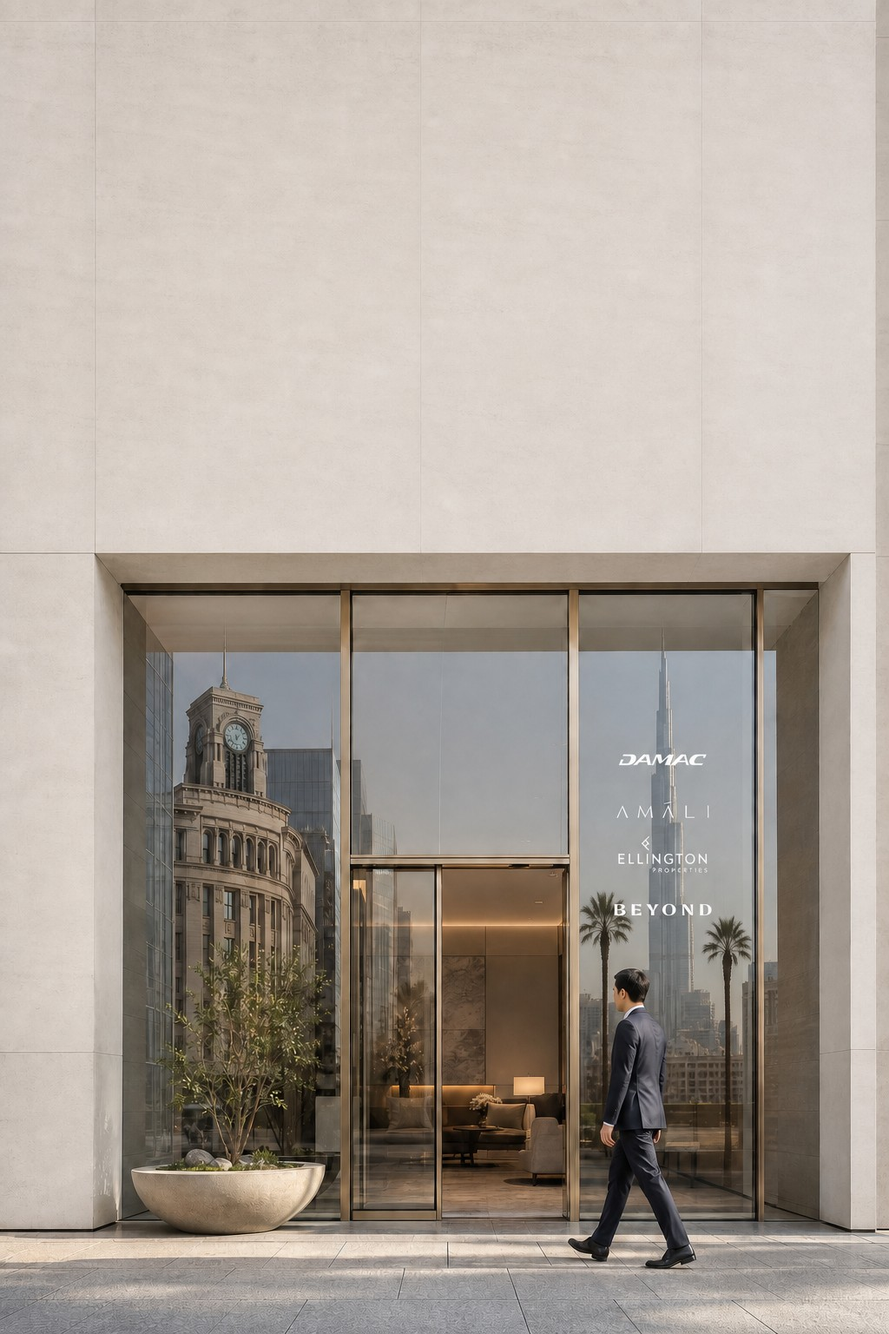
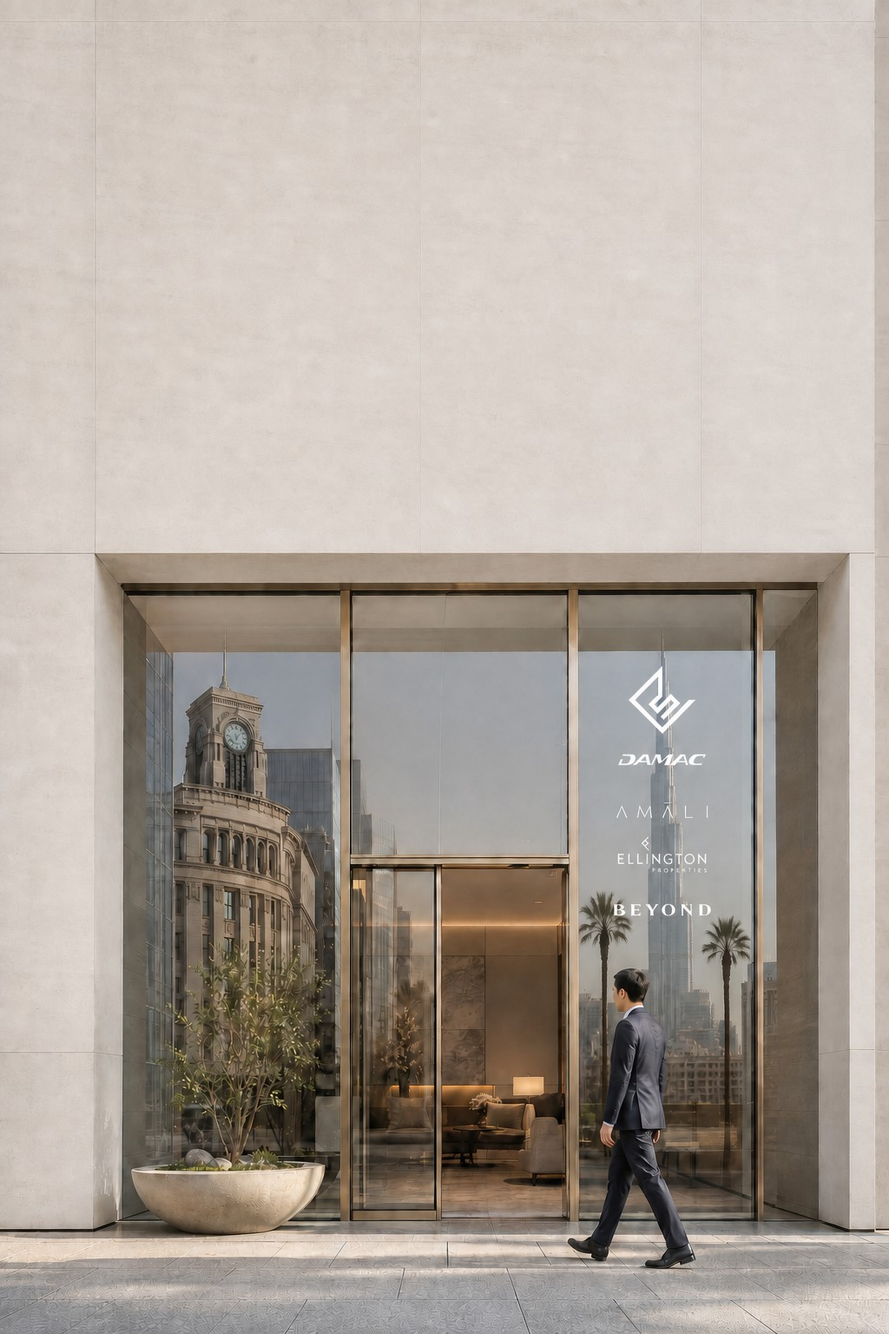
敷居・ロゴ入りを、EXCEED社章入りの版に差し替え
硝子に社章＋4社ロゴが入ったため、社章もオフにすればロゴは硝子の一箇所だけになる。
その旨を画像メモに追記。

diff --git a/index.html b/index.html
@@ -166,7 +166,7 @@
 <div id="stage"></div>
 
 <script>
-const HEROES = [{"id": "ginza-vanishing-point", "name": "銀座の消失点 ／ GINZA VANISHING POINT", "file": "assets/heroes/ginza-vanishing-point.jpg", "note": "通りの消失点にブルジュ。左上の空が唯一まとまって空いている。", "layouts": [{"id": "1", "name": "天 ／ 見出しは静かな面へ", "head": {"t": 35, "l": 12, "r": null, "w": 118, "align": "left", "color": "ink", "scrim": 44, "size": 21}, "band": {"h": 54, "cols": 1}}, {"id": "2", "name": "地 ／ 写真は無傷、文字は下に", "head": {"zone": "band", "color": "white"}, "band": {"h": 67, "cols": 1}}, {"id": "3", "name": "側 ／ 寄せて余白を作る", "head": {"t": 52, "l": 12, "r": null, "w": 96, "align": "left", "color": "ink", "scrim": 44, "size": 19}, "band": {"h": 49, "cols": 1}}, {"id": "4", "name": "二段 ／ 4社を柱に立てる", "head": {"t": 35, "l": 12, "r": null, "w": 118, "align": "left", "color": "ink", "scrim": 44, "size": 21}, "band": {"h": 54, "cols": 2}}]}, {"id": "ginza-corridor", "name": "銀座回廊 ／ GINZA CORRIDOR", "file": "assets/heroes/ginza-corridor.jpg", "note": "完全な左右対称。この一枚だけは中央揃えが効く。空は上40%まるごと無地。", "layouts": [{"id": "1", "name": "中央 ／ 見出しは静かな面へ", "head": {"t": 30, "l": 12, "r": 12, "w": null, "align": "center", "color": "ink", "scrim": 44, "size": 22}, "band": {"h": 50, "cols": 1}}, {"id": "2", "name": "地 ／ 写真は無傷、文字は下に", "head": {"zone": "band", "color": "white"}, "band": {"h": 63, "cols": 1}}, {"id": "3", "name": "側 ／ 寄せて余白を作る", "head": {"t": 30, "l": 12, "r": null, "w": 104, "align": "left", "color": "ink", "scrim": 44, "size": 20}, "band": {"h": 45, "cols": 1}}, {"id": "4", "name": "二段 ／ 4社を柱に立てる", "head": {"t": 30, "l": 12, "r": 12, "w": null, "align": "center", "color": "ink", "scrim": 44, "size": 22}, "band": {"h": 50, "cols": 2}}]}, {"id": "morning-crossing", "name": "朝の交差点 ／ MORNING CROSSING", "file": "assets/heroes/morning-crossing.jpg", "note": "右手前が日陰の石壁。白文字が最も映える面。左上の空も静か。", "layouts": [{"id": "1", "name": "天 ／ 見出しは静かな面へ", "head": {"t": 32, "l": 12, "r": null, "w": 104, "align": "left", "color": "ink", "scrim": 44, "size": 21}, "band": {"h": 54, "cols": 1}}, {"id": "2", "name": "地 ／ 写真は無傷、文字は下に", "head": {"zone": "band", "color": "white"}, "band": {"h": 67, "cols": 1}}, {"id": "3", "name": "右壁 ／ 寄せて余白を作る", "head": {"t": 96, "l": null, "r": 12, "w": 74, "align": "right", "color": "white", "scrim": 0, "size": 18}, "band": {"h": 49, "cols": 1}}, {"id": "4", "name": "二段 ／ 4社を柱に立てる", "head": {"t": 32, "l": 12, "r": null, "w": 104, "align": "left", "color": "ink", "scrim": 44, "size": 21}, "band": {"h": 54, "cols": 2}}]}, {"id": "elevated-ginza", "name": "俯瞰の銀座 ／ ELEVATED GINZA", "file": "assets/heroes/elevated-ginza.jpg", "note": "俯瞰。時計塔が左、ブルジュが右上。空は上30%が完全に無地。", "layouts": [{"id": "1", "name": "天 ／ 見出しは静かな面へ", "head": {"t": 30, "l": null, "r": 12, "w": 112, "align": "right", "color": "ink", "scrim": 44, "size": 21}, "band": {"h": 50, "cols": 1}}, {"id": "2", "name": "地 ／ 写真は無傷、文字は下に", "head": {"zone": "band", "color": "white"}, "band": {"h": 63, "cols": 1}}, {"id": "3", "name": "側 ／ 寄せて余白を作る", "head": {"t": 30, "l": 12, "r": null, "w": 100, "align": "left", "color": "ink", "scrim": 44, "size": 20}, "band": {"h": 45, "cols": 1}}, {"id": "4", "name": "二段 ／ 4社を柱に立てる", "head": {"t": 30, "l": null, "r": 12, "w": 112, "align": "right", "color": "ink", "scrim": 44, "size": 21}, "band": {"h": 50, "cols": 2}}]}, {"id": "clocktower-burj", "name": "時計塔とブルジュ ／ CLOCKTOWER & BURJ", "file": "assets/heroes/clocktower-burj.jpg", "note": "時計塔が右を占める。左上の空が縦に大きく空いており、塔と喧嘩しない。", "layouts": [{"id": "1", "name": "天 ／ 見出しは静かな面へ", "head": {"t": 34, "l": 12, "r": null, "w": 100, "align": "left", "color": "ink", "scrim": 44, "size": 21}, "band": {"h": 54, "cols": 1}}, {"id": "2", "name": "地 ／ 写真は無傷、文字は下に", "head": {"zone": "band", "color": "white"}, "band": {"h": 67, "cols": 1}}, {"id": "3", "name": "側 ／ 寄せて余白を作る", "head": {"t": 88, "l": 12, "r": null, "w": 88, "align": "left", "color": "ink", "scrim": 44, "size": 19}, "band": {"h": 49, "cols": 1}}, {"id": "4", "name": "二段 ／ 4社を柱に立てる", "head": {"t": 34, "l": 12, "r": null, "w": 100, "align": "left", "color": "ink", "scrim": 44, "size": 21}, "band": {"h": 54, "cols": 2}}]}, {"id": "the-window-day", "name": "ショーウィンドウ・昼 ／ THE WINDOW, DAY", "file": "assets/heroes/the-window-day.jpg", "note": "上部の石の見切りが無地。ガラスの中の模型があるので下半分は隠さない。", "layouts": [{"id": "1", "name": "天 ／ 見出しは静かな面へ", "head": {"t": 24, "l": 12, "r": null, "w": 118, "align": "left", "color": "ink", "scrim": 30, "size": 21}, "band": {"h": 44, "cols": 1}}, {"id": "2", "name": "地 ／ 写真は無傷、文字は下に", "head": {"zone": "band", "color": "white"}, "band": {"h": 57, "cols": 1}}, {"id": "3", "name": "側 ／ 寄せて余白を作る", "head": {"t": 24, "l": 12, "r": null, "w": 76, "align": "left", "color": "ink", "scrim": 30, "size": 19}, "band": {"h": 39, "cols": 1}}, {"id": "4", "name": "二段 ／ 4社を柱に立てる", "head": {"t": 24, "l": 12, "r": null, "w": 118, "align": "left", "color": "ink", "scrim": 30, "size": 21}, "band": {"h": 44, "cols": 2}}]}, {"id": "the-window-dusk", "name": "ショーウィンドウ・黄昏 ／ THE WINDOW, DUSK", "file": "assets/heroes/the-window-dusk.jpg", "note": "黄昏の空が暗い。白文字をそのまま置ける。模型と夕景は見せ切る。", "layouts": [{"id": "1", "name": "天 ／ 見出しは静かな面へ", "head": {"t": 24, "l": 12, "r": null, "w": 118, "align": "left", "color": "white", "scrim": 0, "size": 21}, "band": {"h": 44, "cols": 1}}, {"id": "2", "name": "地 ／ 写真は無傷、文字は下に", "head": {"zone": "band", "color": "white"}, "band": {"h": 57, "cols": 1}}, {"id": "3", "name": "側 ／ 寄せて余白を作る", "head": {"t": 24, "l": 12, "r": null, "w": 76, "align": "left", "color": "white", "scrim": 0, "size": 19}, "band": {"h": 39, "cols": 1}}, {"id": "4", "name": "二段 ／ 4社を柱に立てる", "head": {"t": 24, "l": 12, "r": null, "w": 118, "align": "left", "color": "white", "scrim": 0, "size": 21}, "band": {"h": 44, "cols": 2}}]}, {"id": "the-model", "name": "模型 ／ THE MODEL", "file": "assets/heroes/the-model.jpg", "note": "主役は模型そのもの。左のボケた石面に白文字を置けば模型に触らない。", "layouts": [{"id": "1", "name": "天 ／ 見出しは静かな面へ", "head": {"t": 28, "l": 12, "r": null, "w": 104, "align": "left", "color": "white", "scrim": 0, "size": 21}, "band": {"h": 54, "cols": 1}}, {"id": "2", "name": "地 ／ 写真は無傷、文字は下に", "head": {"zone": "band", "color": "white"}, "band": {"h": 67, "cols": 1}}, {"id": "3", "name": "側 ／ 寄せて余白を作る", "head": {"t": 96, "l": 12, "r": null, "w": 88, "align": "left", "color": "white", "scrim": 0, "size": 19}, "band": {"h": 49, "cols": 1}}, {"id": "4", "name": "二段 ／ 4社を柱に立てる", "head": {"t": 28, "l": 12, "r": null, "w": 104, "align": "left", "color": "white", "scrim": 0, "size": 21}, "band": {"h": 54, "cols": 2}}]}, {"id": "iconic-daylight", "name": "白昼の銀座 ／ ICONIC DAYLIGHT", "file": "assets/heroes/iconic-daylight.jpg", "note": "最も静かな空。どこでも成立するが左上が最も広い。", "layouts": [{"id": "1", "name": "天 ／ 見出しは静かな面へ", "head": {"t": 32, "l": 12, "r": null, "w": 108, "align": "left", "color": "ink", "scrim": 44, "size": 21}, "band": {"h": 50, "cols": 1}}, {"id": "2", "name": "地 ／ 写真は無傷、文字は下に", "head": {"zone": "band", "color": "white"}, "band": {"h": 63, "cols": 1}}, {"id": "3", "name": "側 ／ 寄せて余白を作る", "head": {"t": 32, "l": null, "r": 12, "w": 96, "align": "right", "color": "ink", "scrim": 44, "size": 19}, "band": {"h": 45, "cols": 1}}, {"id": "4", "name": "二段 ／ 4社を柱に立てる", "head": {"t": 32, "l": 12, "r": null, "w": 108, "align": "left", "color": "ink", "scrim": 44, "size": 21}, "band": {"h": 50, "cols": 2}}]}, {"id": "blue-hour", "name": "青の刻 ／ BLUE HOUR", "file": "assets/heroes/blue-hour.jpg", "note": "夜。紺の空に白文字が最も美しい。濡れた路面は下半分なので帯で隠れてよい。", "layouts": [{"id": "1", "name": "天 ／ 見出しは静かな面へ", "head": {"t": 28, "l": 12, "r": null, "w": 112, "align": "left", "color": "white", "scrim": 0, "size": 21}, "band": {"h": 50, "cols": 1}}, {"id": "2", "name": "地 ／ 写真は無傷、文字は下に", "head": {"zone": "band", "color": "white"}, "band": {"h": 63, "cols": 1}}, {"id": "3", "name": "側 ／ 寄せて余白を作る", "head": {"t": 28, "l": null, "r": 12, "w": 96, "align": "right", "color": "white", "scrim": 0, "size": 19}, "band": {"h": 45, "cols": 1}}, {"id": "4", "name": "二段 ／ 4社を柱に立てる", "head": {"t": 28, "l": 12, "r": null, "w": 112, "align": "left", "color": "white", "scrim": 0, "size": 21}, "band": {"h": 50, "cols": 2}}]}, {"id": "window-reflection", "name": "硝子の中のドバイ ／ WINDOW REFLECTION", "file": "assets/heroes/window-reflection.jpg", "note": "硝子の中にドバイ。反射像を消さないよう文字は窓枠の外へ逃がす。", "layouts": [{"id": "1", "name": "天 ／ 見出しは静かな面へ", "head": {"t": 26, "l": 12, "r": null, "w": 112, "align": "left", "color": "ink", "scrim": 34, "size": 21}, "band": {"h": 48, "cols": 1}}, {"id": "2", "name": "地 ／ 写真は無傷、文字は下に", "head": {"zone": "band", "color": "white"}, "band": {"h": 61, "cols": 1}}, {"id": "3", "name": "側 ／ 寄せて余白を作る", "head": {"t": 90, "l": 12, "r": null, "w": 84, "align": "left", "color": "white", "scrim": 0, "size": 19}, "band": {"h": 43, "cols": 1}}, {"id": "4", "name": "二段 ／ 4社を柱に立てる", "head": {"t": 26, "l": 12, "r": null, "w": 112, "align": "left", "color": "ink", "scrim": 34, "size": 21}, "band": {"h": 48, "cols": 2}}]}, {"id": "new-office", "name": "新しい執務室 ／ THE NEW OFFICE", "file": "assets/heroes/new-office.jpg", "note": "室内。左の無地の壁が唯一の逃げ場。窓外のドバイと打合せ卓は見せる。", "layouts": [{"id": "1", "name": "壁 ／ 見出しは静かな面へ", "head": {"t": 30, "l": 12, "r": null, "w": 100, "align": "left", "color": "ink", "scrim": 36, "size": 21}, "band": {"h": 48, "cols": 1}}, {"id": "2", "name": "地 ／ 写真は無傷、文字は下に", "head": {"zone": "band", "color": "white"}, "band": {"h": 61, "cols": 1}}, {"id": "3", "name": "側 ／ 寄せて余白を作る", "head": {"t": 84, "l": 12, "r": null, "w": 86, "align": "left", "color": "ink", "scrim": 44, "size": 19}, "band": {"h": 43, "cols": 1}}, {"id": "4", "name": "二段 ／ 4社を柱に立てる", "head": {"t": 30, "l": 12, "r": null, "w": 100, "align": "left", "color": "ink", "scrim": 36, "size": 21}, "band": {"h": 48, "cols": 2}}]}, {"id": "elevated-city", "name": "俯瞰の街 ／ ELEVATED CITY", "file": "assets/heroes/elevated-city.jpg", "note": "俯瞰。空が上30%無地。街区のリズムが横に流れるので見出しも横位置。", "layouts": [{"id": "1", "name": "天 ／ 見出しは静かな面へ", "head": {"t": 28, "l": 12, "r": null, "w": 110, "align": "left", "color": "ink", "scrim": 44, "size": 21}, "band": {"h": 50, "cols": 1}}, {"id": "2", "name": "地 ／ 写真は無傷、文字は下に", "head": {"zone": "band", "color": "white"}, "band": {"h": 63, "cols": 1}}, {"id": "3", "name": "側 ／ 寄せて余白を作る", "head": {"t": 28, "l": null, "r": 12, "w": 94, "align": "right", "color": "ink", "scrim": 44, "size": 19}, "band": {"h": 45, "cols": 1}}, {"id": "4", "name": "二段 ／ 4社を柱に立てる", "head": {"t": 28, "l": 12, "r": null, "w": 110, "align": "left", "color": "ink", "scrim": 44, "size": 21}, "band": {"h": 50, "cols": 2}}]}, {"id": "human-led", "name": "歩く人 ／ HUMAN LED", "file": "assets/heroes/human-led.jpg", "note": "人物が中央下。顔に文字がかからないよう左上へ。視線の先が空くのも good。", "layouts": [{"id": "1", "name": "天 ／ 見出しは静かな面へ", "head": {"t": 30, "l": 12, "r": null, "w": 100, "align": "left", "color": "ink", "scrim": 44, "size": 21}, "band": {"h": 54, "cols": 1}}, {"id": "2", "name": "地 ／ 写真は無傷、文字は下に", "head": {"zone": "band", "color": "white"}, "band": {"h": 67, "cols": 1}}, {"id": "3", "name": "側 ／ 寄せて余白を作る", "head": {"t": 30, "l": null, "r": 12, "w": 88, "align": "right", "color": "ink", "scrim": 44, "size": 19}, "band": {"h": 49, "cols": 1}}, {"id": "4", "name": "二段 ／ 4社を柱に立てる", "head": {"t": 30, "l": 12, "r": null, "w": 100, "align": "left", "color": "ink", "scrim": 44, "size": 21}, "band": {"h": 54, "cols": 2}}]}, {"id": "champagne-sunrise", "name": "黎明 ／ CHAMPAGNE SUNRISE", "file": "assets/heroes/champagne-sunrise.jpg", "note": "最も明るい空。墨の明朝が最もよく効く一枚。", "layouts": [{"id": "1", "name": "天 ／ 見出しは静かな面へ", "head": {"t": 32, "l": 12, "r": null, "w": 112, "align": "left", "color": "ink", "scrim": 44, "size": 21}, "band": {"h": 50, "cols": 1}}, {"id": "2", "name": "地 ／ 写真は無傷、文字は下に", "head": {"zone": "band", "color": "white"}, "band": {"h": 63, "cols": 1}}, {"id": "3", "name": "側 ／ 寄せて余白を作る", "head": {"t": 32, "l": null, "r": 12, "w": 96, "align": "right", "color": "ink", "scrim": 44, "size": 19}, "band": {"h": 45, "cols": 1}}, {"id": "4", "name": "二段 ／ 4社を柱に立てる", "head": {"t": 32, "l": 12, "r": null, "w": 112, "align": "left", "color": "ink", "scrim": 44, "size": 21}, "band": {"h": 50, "cols": 2}}]}, {"id": "architectural-model", "name": "建築模型 ／ ARCHITECTURAL MODEL", "file": "assets/heroes/architectural-model.jpg", "note": "模型と背後の塔。上部のガラス面が暗いので白文字が乗る。", "layouts": [{"id": "1", "name": "天 ／ 見出しは静かな面へ", "head": {"t": 26, "l": 12, "r": null, "w": 104, "align": "left", "color": "white", "scrim": 0, "size": 21}, "band": {"h": 46, "cols": 1}}, {"id": "2", "name": "地 ／ 写真は無傷、文字は下に", "head": {"zone": "band", "color": "white"}, "band": {"h": 59, "cols": 1}}, {"id": "3", "name": "側 ／ 寄せて余白を作る", "head": {"t": 92, "l": 12, "r": null, "w": 86, "align": "left", "color": "white", "scrim": 0, "size": 19}, "band": {"h": 41, "cols": 1}}, {"id": "4", "name": "二段 ／ 4社を柱に立てる", "head": {"t": 26, "l": 12, "r": null, "w": 104, "align": "left", "color": "white", "scrim": 0, "size": 21}, "band": {"h": 46, "cols": 2}}]}, {"id": "office-beacon", "name": "灯 ／ THE BEACON", "file": "assets/heroes/office-beacon.jpg", "note": "夜。左が暗く右に灯った窓。左上の闇に白文字を置くと灯りが引き立つ。", "layouts": [{"id": "1", "name": "天 ／ 見出しは静かな面へ", "head": {"t": 28, "l": 12, "r": null, "w": 104, "align": "left", "color": "white", "scrim": 0, "size": 21}, "band": {"h": 50, "cols": 1}}, {"id": "2", "name": "地 ／ 写真は無傷、文字は下に", "head": {"zone": "band", "color": "white"}, "band": {"h": 63, "cols": 1}}, {"id": "3", "name": "側 ／ 寄せて余白を作る", "head": {"t": 92, "l": 12, "r": null, "w": 88, "align": "left", "color": "white", "scrim": 0, "size": 19}, "band": {"h": 45, "cols": 1}}, {"id": "4", "name": "二段 ／ 4社を柱に立てる", "head": {"t": 28, "l": 12, "r": null, "w": 104, "align": "left", "color": "white", "scrim": 0, "size": 21}, "band": {"h": 50, "cols": 2}}]}, {"id": "the-threshold", "name": "入口・敷居 ／ THE THRESHOLD", "file": "assets/heroes/the-threshold.jpg", "note": "上4割が継ぎ目のない石壁。ここは\"空きスペース\"ではなく看板面。文字は壁に刻まれたサインとして置く。ガラスの中は左に時計塔、右にブルジュ。銀座からドバイへまたぐ敷居そのものなので、下半分は絶対に隠さない。", "layouts": [{"id": "1", "name": "壁面サイン ／ 石壁に刻む", "head": {"t": 34, "l": 12, "r": 12, "w": null, "align": "center", "color": "ink", "scrim": 0, "size": 24}, "band": {"h": 26, "cols": 1}}, {"id": "2", "name": "地 ／ 壁は無地のまま残す", "head": {"zone": "band", "color": "white"}, "band": {"h": 40, "cols": 1}}, {"id": "3", "name": "軒下 ／ 硝子の直上に小さく", "head": {"t": 52, "l": 14, "r": null, "w": 92, "align": "left", "color": "ink", "scrim": 0, "size": 16}, "band": {"h": 24, "cols": 1}}, {"id": "4", "name": "二段 ／ 壁に見出し、4社は柱に", "head": {"t": 30, "l": 12, "r": null, "w": 120, "align": "left", "color": "ink", "scrim": 0, "size": 22}, "band": {"h": 30, "cols": 2}}, {"id": "5", "name": "壁面完結 ／ すべてを石壁に、下は無傷", "head": {"zone": "band", "color": "ink"}, "band": {"h": 0, "cols": 1, "pos": "top"}}]}, {"id": "threshold-branded", "name": "敷居・ロゴ入り ／ THE THRESHOLD, BRANDED", "file": "assets/heroes/threshold-branded.jpg", "noDevs": true, "note": "硝子に4社のロゴがすでに焼き込まれている一枚。紙面で社名を繰り返すと二重になるので、この画像だけデベロッパー欄を出さない。上4割の石壁は看板面、硝子の中（時計塔・ブルジュ・ロゴ）は隠さない。", "layouts": [{"id": "1", "name": "壁面サイン ／ 石壁に刻む", "head": {"t": 34, "l": 12, "r": 12, "w": null, "align": "center", "color": "ink", "scrim": 0, "size": 24}, "band": {"h": 24, "cols": 1}}, {"id": "2", "name": "壁面完結 ／ すべてを石壁に、下は無傷", "head": {"zone": "band", "color": "ink"}, "band": {"h": 0, "cols": 1, "pos": "top"}}, {"id": "3", "name": "軒下 ／ 硝子の直上に小さく", "head": {"t": 52, "l": 14, "r": null, "w": 92, "align": "left", "color": "ink", "scrim": 0, "size": 16}, "band": {"h": 22, "cols": 1}}, {"id": "4", "name": "地 ／ 壁は無地のまま残す", "head": {"zone": "band", "color": "white"}, "band": {"h": 36, "cols": 1}}]}];
+const HEROES = [{"id": "ginza-vanishing-point", "name": "銀座の消失点 ／ GINZA VANISHING POINT", "file": "assets/heroes/ginza-vanishing-point.jpg", "note": "通りの消失点にブルジュ。左上の空が唯一まとまって空いている。", "layouts": [{"id": "1", "name": "天 ／ 見出しは静かな面へ", "head": {"t": 35, "l": 12, "r": null, "w": 118, "align": "left", "color": "ink", "scrim": 44, "size": 21}, "band": {"h": 54, "cols": 1}}, {"id": "2", "name": "地 ／ 写真は無傷、文字は下に", "head": {"zone": "band", "color": "white"}, "band": {"h": 67, "cols": 1}}, {"id": "3", "name": "側 ／ 寄せて余白を作る", "head": {"t": 52, "l": 12, "r": null, "w": 96, "align": "left", "color": "ink", "scrim": 44, "size": 19}, "band": {"h": 49, "cols": 1}}, {"id": "4", "name": "二段 ／ 4社を柱に立てる", "head": {"t": 35, "l": 12, "r": null, "w": 118, "align": "left", "color": "ink", "scrim": 44, "size": 21}, "band": {"h": 54, "cols": 2}}]}, {"id": "ginza-corridor", "name": "銀座回廊 ／ GINZA CORRIDOR", "file": "assets/heroes/ginza-corridor.jpg", "note": "完全な左右対称。この一枚だけは中央揃えが効く。空は上40%まるごと無地。", "layouts": [{"id": "1", "name": "中央 ／ 見出しは静かな面へ", "head": {"t": 30, "l": 12, "r": 12, "w": null, "align": "center", "color": "ink", "scrim": 44, "size": 22}, "band": {"h": 50, "cols": 1}}, {"id": "2", "name": "地 ／ 写真は無傷、文字は下に", "head": {"zone": "band", "color": "white"}, "band": {"h": 63, "cols": 1}}, {"id": "3", "name": "側 ／ 寄せて余白を作る", "head": {"t": 30, "l": 12, "r": null, "w": 104, "align": "left", "color": "ink", "scrim": 44, "size": 20}, "band": {"h": 45, "cols": 1}}, {"id": "4", "name": "二段 ／ 4社を柱に立てる", "head": {"t": 30, "l": 12, "r": 12, "w": null, "align": "center", "color": "ink", "scrim": 44, "size": 22}, "band": {"h": 50, "cols": 2}}]}, {"id": "morning-crossing", "name": "朝の交差点 ／ MORNING CROSSING", "file": "assets/heroes/morning-crossing.jpg", "note": "右手前が日陰の石壁。白文字が最も映える面。左上の空も静か。", "layouts": [{"id": "1", "name": "天 ／ 見出しは静かな面へ", "head": {"t": 32, "l": 12, "r": null, "w": 104, "align": "left", "color": "ink", "scrim": 44, "size": 21}, "band": {"h": 54, "cols": 1}}, {"id": "2", "name": "地 ／ 写真は無傷、文字は下に", "head": {"zone": "band", "color": "white"}, "band": {"h": 67, "cols": 1}}, {"id": "3", "name": "右壁 ／ 寄せて余白を作る", "head": {"t": 96, "l": null, "r": 12, "w": 74, "align": "right", "color": "white", "scrim": 0, "size": 18}, "band": {"h": 49, "cols": 1}}, {"id": "4", "name": "二段 ／ 4社を柱に立てる", "head": {"t": 32, "l": 12, "r": null, "w": 104, "align": "left", "color": "ink", "scrim": 44, "size": 21}, "band": {"h": 54, "cols": 2}}]}, {"id": "elevated-ginza", "name": "俯瞰の銀座 ／ ELEVATED GINZA", "file": "assets/heroes/elevated-ginza.jpg", "note": "俯瞰。時計塔が左、ブルジュが右上。空は上30%が完全に無地。", "layouts": [{"id": "1", "name": "天 ／ 見出しは静かな面へ", "head": {"t": 30, "l": null, "r": 12, "w": 112, "align": "right", "color": "ink", "scrim": 44, "size": 21}, "band": {"h": 50, "cols": 1}}, {"id": "2", "name": "地 ／ 写真は無傷、文字は下に", "head": {"zone": "band", "color": "white"}, "band": {"h": 63, "cols": 1}}, {"id": "3", "name": "側 ／ 寄せて余白を作る", "head": {"t": 30, "l": 12, "r": null, "w": 100, "align": "left", "color": "ink", "scrim": 44, "size": 20}, "band": {"h": 45, "cols": 1}}, {"id": "4", "name": "二段 ／ 4社を柱に立てる", "head": {"t": 30, "l": null, "r": 12, "w": 112, "align": "right", "color": "ink", "scrim": 44, "size": 21}, "band": {"h": 50, "cols": 2}}]}, {"id": "clocktower-burj", "name": "時計塔とブルジュ ／ CLOCKTOWER & BURJ", "file": "assets/heroes/clocktower-burj.jpg", "note": "時計塔が右を占める。左上の空が縦に大きく空いており、塔と喧嘩しない。", "layouts": [{"id": "1", "name": "天 ／ 見出しは静かな面へ", "head": {"t": 34, "l": 12, "r": null, "w": 100, "align": "left", "color": "ink", "scrim": 44, "size": 21}, "band": {"h": 54, "cols": 1}}, {"id": "2", "name": "地 ／ 写真は無傷、文字は下に", "head": {"zone": "band", "color": "white"}, "band": {"h": 67, "cols": 1}}, {"id": "3", "name": "側 ／ 寄せて余白を作る", "head": {"t": 88, "l": 12, "r": null, "w": 88, "align": "left", "color": "ink", "scrim": 44, "size": 19}, "band": {"h": 49, "cols": 1}}, {"id": "4", "name": "二段 ／ 4社を柱に立てる", "head": {"t": 34, "l": 12, "r": null, "w": 100, "align": "left", "color": "ink", "scrim": 44, "size": 21}, "band": {"h": 54, "cols": 2}}]}, {"id": "the-window-day", "name": "ショーウィンドウ・昼 ／ THE WINDOW, DAY", "file": "assets/heroes/the-window-day.jpg", "note": "上部の石の見切りが無地。ガラスの中の模型があるので下半分は隠さない。", "layouts": [{"id": "1", "name": "天 ／ 見出しは静かな面へ", "head": {"t": 24, "l": 12, "r": null, "w": 118, "align": "left", "color": "ink", "scrim": 30, "size": 21}, "band": {"h": 44, "cols": 1}}, {"id": "2", "name": "地 ／ 写真は無傷、文字は下に", "head": {"zone": "band", "color": "white"}, "band": {"h": 57, "cols": 1}}, {"id": "3", "name": "側 ／ 寄せて余白を作る", "head": {"t": 24, "l": 12, "r": null, "w": 76, "align": "left", "color": "ink", "scrim": 30, "size": 19}, "band": {"h": 39, "cols": 1}}, {"id": "4", "name": "二段 ／ 4社を柱に立てる", "head": {"t": 24, "l": 12, "r": null, "w": 118, "align": "left", "color": "ink", "scrim": 30, "size": 21}, "band": {"h": 44, "cols": 2}}]}, {"id": "the-window-dusk", "name": "ショーウィンドウ・黄昏 ／ THE WINDOW, DUSK", "file": "assets/heroes/the-window-dusk.jpg", "note": "黄昏の空が暗い。白文字をそのまま置ける。模型と夕景は見せ切る。", "layouts": [{"id": "1", "name": "天 ／ 見出しは静かな面へ", "head": {"t": 24, "l": 12, "r": null, "w": 118, "align": "left", "color": "white", "scrim": 0, "size": 21}, "band": {"h": 44, "cols": 1}}, {"id": "2", "name": "地 ／ 写真は無傷、文字は下に", "head": {"zone": "band", "color": "white"}, "band": {"h": 57, "cols": 1}}, {"id": "3", "name": "側 ／ 寄せて余白を作る", "head": {"t": 24, "l": 12, "r": null, "w": 76, "align": "left", "color": "white", "scrim": 0, "size": 19}, "band": {"h": 39, "cols": 1}}, {"id": "4", "name": "二段 ／ 4社を柱に立てる", "head": {"t": 24, "l": 12, "r": null, "w": 118, "align": "left", "color": "white", "scrim": 0, "size": 21}, "band": {"h": 44, "cols": 2}}]}, {"id": "the-model", "name": "模型 ／ THE MODEL", "file": "assets/heroes/the-model.jpg", "note": "主役は模型そのもの。左のボケた石面に白文字を置けば模型に触らない。", "layouts": [{"id": "1", "name": "天 ／ 見出しは静かな面へ", "head": {"t": 28, "l": 12, "r": null, "w": 104, "align": "left", "color": "white", "scrim": 0, "size": 21}, "band": {"h": 54, "cols": 1}}, {"id": "2", "name": "地 ／ 写真は無傷、文字は下に", "head": {"zone": "band", "color": "white"}, "band": {"h": 67, "cols": 1}}, {"id": "3", "name": "側 ／ 寄せて余白を作る", "head": {"t": 96, "l": 12, "r": null, "w": 88, "align": "left", "color": "white", "scrim": 0, "size": 19}, "band": {"h": 49, "cols": 1}}, {"id": "4", "name": "二段 ／ 4社を柱に立てる", "head": {"t": 28, "l": 12, "r": null, "w": 104, "align": "left", "color": "white", "scrim": 0, "size": 21}, "band": {"h": 54, "cols": 2}}]}, {"id": "iconic-daylight", "name": "白昼の銀座 ／ ICONIC DAYLIGHT", "file": "assets/heroes/iconic-daylight.jpg", "note": "最も静かな空。どこでも成立するが左上が最も広い。", "layouts": [{"id": "1", "name": "天 ／ 見出しは静かな面へ", "head": {"t": 32, "l": 12, "r": null, "w": 108, "align": "left", "color": "ink", "scrim": 44, "size": 21}, "band": {"h": 50, "cols": 1}}, {"id": "2", "name": "地 ／ 写真は無傷、文字は下に", "head": {"zone": "band", "color": "white"}, "band": {"h": 63, "cols": 1}}, {"id": "3", "name": "側 ／ 寄せて余白を作る", "head": {"t": 32, "l": null, "r": 12, "w": 96, "align": "right", "color": "ink", "scrim": 44, "size": 19}, "band": {"h": 45, "cols": 1}}, {"id": "4", "name": "二段 ／ 4社を柱に立てる", "head": {"t": 32, "l": 12, "r": null, "w": 108, "align": "left", "color": "ink", "scrim": 44, "size": 21}, "band": {"h": 50, "cols": 2}}]}, {"id": "blue-hour", "name": "青の刻 ／ BLUE HOUR", "file": "assets/heroes/blue-hour.jpg", "note": "夜。紺の空に白文字が最も美しい。濡れた路面は下半分なので帯で隠れてよい。", "layouts": [{"id": "1", "name": "天 ／ 見出しは静かな面へ", "head": {"t": 28, "l": 12, "r": null, "w": 112, "align": "left", "color": "white", "scrim": 0, "size": 21}, "band": {"h": 50, "cols": 1}}, {"id": "2", "name": "地 ／ 写真は無傷、文字は下に", "head": {"zone": "band", "color": "white"}, "band": {"h": 63, "cols": 1}}, {"id": "3", "name": "側 ／ 寄せて余白を作る", "head": {"t": 28, "l": null, "r": 12, "w": 96, "align": "right", "color": "white", "scrim": 0, "size": 19}, "band": {"h": 45, "cols": 1}}, {"id": "4", "name": "二段 ／ 4社を柱に立てる", "head": {"t": 28, "l": 12, "r": null, "w": 112, "align": "left", "color": "white", "scrim": 0, "size": 21}, "band": {"h": 50, "cols": 2}}]}, {"id": "window-reflection", "name": "硝子の中のドバイ ／ WINDOW REFLECTION", "file": "assets/heroes/window-reflection.jpg", "note": "硝子の中にドバイ。反射像を消さないよう文字は窓枠の外へ逃がす。", "layouts": [{"id": "1", "name": "天 ／ 見出しは静かな面へ", "head": {"t": 26, "l": 12, "r": null, "w": 112, "align": "left", "color": "ink", "scrim": 34, "size": 21}, "band": {"h": 48, "cols": 1}}, {"id": "2", "name": "地 ／ 写真は無傷、文字は下に", "head": {"zone": "band", "color": "white"}, "band": {"h": 61, "cols": 1}}, {"id": "3", "name": "側 ／ 寄せて余白を作る", "head": {"t": 90, "l": 12, "r": null, "w": 84, "align": "left", "color": "white", "scrim": 0, "size": 19}, "band": {"h": 43, "cols": 1}}, {"id": "4", "name": "二段 ／ 4社を柱に立てる", "head": {"t": 26, "l": 12, "r": null, "w": 112, "align": "left", "color": "ink", "scrim": 34, "size": 21}, "band": {"h": 48, "cols": 2}}]}, {"id": "new-office", "name": "新しい執務室 ／ THE NEW OFFICE", "file": "assets/heroes/new-office.jpg", "note": "室内。左の無地の壁が唯一の逃げ場。窓外のドバイと打合せ卓は見せる。", "layouts": [{"id": "1", "name": "壁 ／ 見出しは静かな面へ", "head": {"t": 30, "l": 12, "r": null, "w": 100, "align": "left", "color": "ink", "scrim": 36, "size": 21}, "band": {"h": 48, "cols": 1}}, {"id": "2", "name": "地 ／ 写真は無傷、文字は下に", "head": {"zone": "band", "color": "white"}, "band": {"h": 61, "cols": 1}}, {"id": "3", "name": "側 ／ 寄せて余白を作る", "head": {"t": 84, "l": 12, "r": null, "w": 86, "align": "left", "color": "ink", "scrim": 44, "size": 19}, "band": {"h": 43, "cols": 1}}, {"id": "4", "name": "二段 ／ 4社を柱に立てる", "head": {"t": 30, "l": 12, "r": null, "w": 100, "align": "left", "color": "ink", "scrim": 36, "size": 21}, "band": {"h": 48, "cols": 2}}]}, {"id": "elevated-city", "name": "俯瞰の街 ／ ELEVATED CITY", "file": "assets/heroes/elevated-city.jpg", "note": "俯瞰。空が上30%無地。街区のリズムが横に流れるので見出しも横位置。", "layouts": [{"id": "1", "name": "天 ／ 見出しは静かな面へ", "head": {"t": 28, "l": 12, "r": null, "w": 110, "align": "left", "color": "ink", "scrim": 44, "size": 21}, "band": {"h": 50, "cols": 1}}, {"id": "2", "name": "地 ／ 写真は無傷、文字は下に", "head": {"zone": "band", "color": "white"}, "band": {"h": 63, "cols": 1}}, {"id": "3", "name": "側 ／ 寄せて余白を作る", "head": {"t": 28, "l": null, "r": 12, "w": 94, "align": "right", "color": "ink", "scrim": 44, "size": 19}, "band": {"h": 45, "cols": 1}}, {"id": "4", "name": "二段 ／ 4社を柱に立てる", "head": {"t": 28, "l": 12, "r": null, "w": 110, "align": "left", "color": "ink", "scrim": 44, "size": 21}, "band": {"h": 50, "cols": 2}}]}, {"id": "human-led", "name": "歩く人 ／ HUMAN LED", "file": "assets/heroes/human-led.jpg", "note": "人物が中央下。顔に文字がかからないよう左上へ。視線の先が空くのも good。", "layouts": [{"id": "1", "name": "天 ／ 見出しは静かな面へ", "head": {"t": 30, "l": 12, "r": null, "w": 100, "align": "left", "color": "ink", "scrim": 44, "size": 21}, "band": {"h": 54, "cols": 1}}, {"id": "2", "name": "地 ／ 写真は無傷、文字は下に", "head": {"zone": "band", "color": "white"}, "band": {"h": 67, "cols": 1}}, {"id": "3", "name": "側 ／ 寄せて余白を作る", "head": {"t": 30, "l": null, "r": 12, "w": 88, "align": "right", "color": "ink", "scrim": 44, "size": 19}, "band": {"h": 49, "cols": 1}}, {"id": "4", "name": "二段 ／ 4社を柱に立てる", "head": {"t": 30, "l": 12, "r": null, "w": 100, "align": "left", "color": "ink", "scrim": 44, "size": 21}, "band": {"h": 54, "cols": 2}}]}, {"id": "champagne-sunrise", "name": "黎明 ／ CHAMPAGNE SUNRISE", "file": "assets/heroes/champagne-sunrise.jpg", "note": "最も明るい空。墨の明朝が最もよく効く一枚。", "layouts": [{"id": "1", "name": "天 ／ 見出しは静かな面へ", "head": {"t": 32, "l": 12, "r": null, "w": 112, "align": "left", "color": "ink", "scrim": 44, "size": 21}, "band": {"h": 50, "cols": 1}}, {"id": "2", "name": "地 ／ 写真は無傷、文字は下に", "head": {"zone": "band", "color": "white"}, "band": {"h": 63, "cols": 1}}, {"id": "3", "name": "側 ／ 寄せて余白を作る", "head": {"t": 32, "l": null, "r": 12, "w": 96, "align": "right", "color": "ink", "scrim": 44, "size": 19}, "band": {"h": 45, "cols": 1}}, {"id": "4", "name": "二段 ／ 4社を柱に立てる", "head": {"t": 32, "l": 12, "r": null, "w": 112, "align": "left", "color": "ink", "scrim": 44, "size": 21}, "band": {"h": 50, "cols": 2}}]}, {"id": "architectural-model", "name": "建築模型 ／ ARCHITECTURAL MODEL", "file": "assets/heroes/architectural-model.jpg", "note": "模型と背後の塔。上部のガラス面が暗いので白文字が乗る。", "layouts": [{"id": "1", "name": "天 ／ 見出しは静かな面へ", "head": {"t": 26, "l": 12, "r": null, "w": 104, "align": "left", "color": "white", "scrim": 0, "size": 21}, "band": {"h": 46, "cols": 1}}, {"id": "2", "name": "地 ／ 写真は無傷、文字は下に", "head": {"zone": "band", "color": "white"}, "band": {"h": 59, "cols": 1}}, {"id": "3", "name": "側 ／ 寄せて余白を作る", "head": {"t": 92, "l": 12, "r": null, "w": 86, "align": "left", "color": "white", "scrim": 0, "size": 19}, "band": {"h": 41, "cols": 1}}, {"id": "4", "name": "二段 ／ 4社を柱に立てる", "head": {"t": 26, "l": 12, "r": null, "w": 104, "align": "left", "color": "white", "scrim": 0, "size": 21}, "band": {"h": 46, "cols": 2}}]}, {"id": "office-beacon", "name": "灯 ／ THE BEACON", "file": "assets/heroes/office-beacon.jpg", "note": "夜。左が暗く右に灯った窓。左上の闇に白文字を置くと灯りが引き立つ。", "layouts": [{"id": "1", "name": "天 ／ 見出しは静かな面へ", "head": {"t": 28, "l": 12, "r": null, "w": 104, "align": "left", "color": "white", "scrim": 0, "size": 21}, "band": {"h": 50, "cols": 1}}, {"id": "2", "name": "地 ／ 写真は無傷、文字は下に", "head": {"zone": "band", "color": "white"}, "band": {"h": 63, "cols": 1}}, {"id": "3", "name": "側 ／ 寄せて余白を作る", "head": {"t": 92, "l": 12, "r": null, "w": 88, "align": "left", "color": "white", "scrim": 0, "size": 19}, "band": {"h": 45, "cols": 1}}, {"id": "4", "name": "二段 ／ 4社を柱に立てる", "head": {"t": 28, "l": 12, "r": null, "w": 104, "align": "left", "color": "white", "scrim": 0, "size": 21}, "band": {"h": 50, "cols": 2}}]}, {"id": "the-threshold", "name": "入口・敷居 ／ THE THRESHOLD", "file": "assets/heroes/the-threshold.jpg", "note": "上4割が継ぎ目のない石壁。ここは\"空きスペース\"ではなく看板面。文字は壁に刻まれたサインとして置く。ガラスの中は左に時計塔、右にブルジュ。銀座からドバイへまたぐ敷居そのものなので、下半分は絶対に隠さない。", "layouts": [{"id": "1", "name": "壁面サイン ／ 石壁に刻む", "head": {"t": 34, "l": 12, "r": 12, "w": null, "align": "center", "color": "ink", "scrim": 0, "size": 24}, "band": {"h": 26, "cols": 1}}, {"id": "2", "name": "地 ／ 壁は無地のまま残す", "head": {"zone": "band", "color": "white"}, "band": {"h": 40, "cols": 1}}, {"id": "3", "name": "軒下 ／ 硝子の直上に小さく", "head": {"t": 52, "l": 14, "r": null, "w": 92, "align": "left", "color": "ink", "scrim": 0, "size": 16}, "band": {"h": 24, "cols": 1}}, {"id": "4", "name": "二段 ／ 壁に見出し、4社は柱に", "head": {"t": 30, "l": 12, "r": null, "w": 120, "align": "left", "color": "ink", "scrim": 0, "size": 22}, "band": {"h": 30, "cols": 2}}, {"id": "5", "name": "壁面完結 ／ すべてを石壁に、下は無傷", "head": {"zone": "band", "color": "ink"}, "band": {"h": 0, "cols": 1, "pos": "top"}}]}, {"id": "threshold-branded", "name": "敷居・ロゴ入り ／ THE THRESHOLD, BRANDED", "file": "assets/heroes/threshold-branded.jpg", "noDevs": true, "note": "硝子に EXCEED の社章と4社のロゴがすでに焼き込まれている一枚。紙面で社名を繰り返すと二重になるので、この画像だけデベロッパー欄を出さない。左上の社章もオフにすると、ロゴは硝子の中の一箇所だけになり最も静かに決まる。上4割の石壁は看板面。硝子から下（時計塔・ブルジュ・ロゴ）は隠さない。", "layouts": [{"id": "1", "name": "壁面サイン ／ 石壁に刻む", "head": {"t": 34, "l": 12, "r": 12, "w": null, "align": "center", "color": "ink", "scrim": 0, "size": 24}, "band": {"h": 24, "cols": 1}}, {"id": "2", "name": "壁面完結 ／ すべてを石壁に、下は無傷", "head": {"zone": "band", "color": "ink"}, "band": {"h": 0, "cols": 1, "pos": "top"}}, {"id": "3", "name": "軒下 ／ 硝子の直上に小さく", "head": {"t": 52, "l": 14, "r": null, "w": 92, "align": "left", "color": "ink", "scrim": 0, "size": 16}, "band": {"h": 22, "cols": 1}}, {"id": "4", "name": "地 ／ 壁は無地のまま残す", "head": {"zone": "band", "color": "white"}, "band": {"h": 36, "cols": 1}}]}];
 
 const HEADLINES = [
  {id:'1',label:'1 ／ ドバイが、銀座に来ます。',h:'<em>ドバイ</em>が、銀座に来ます。',size:27},
